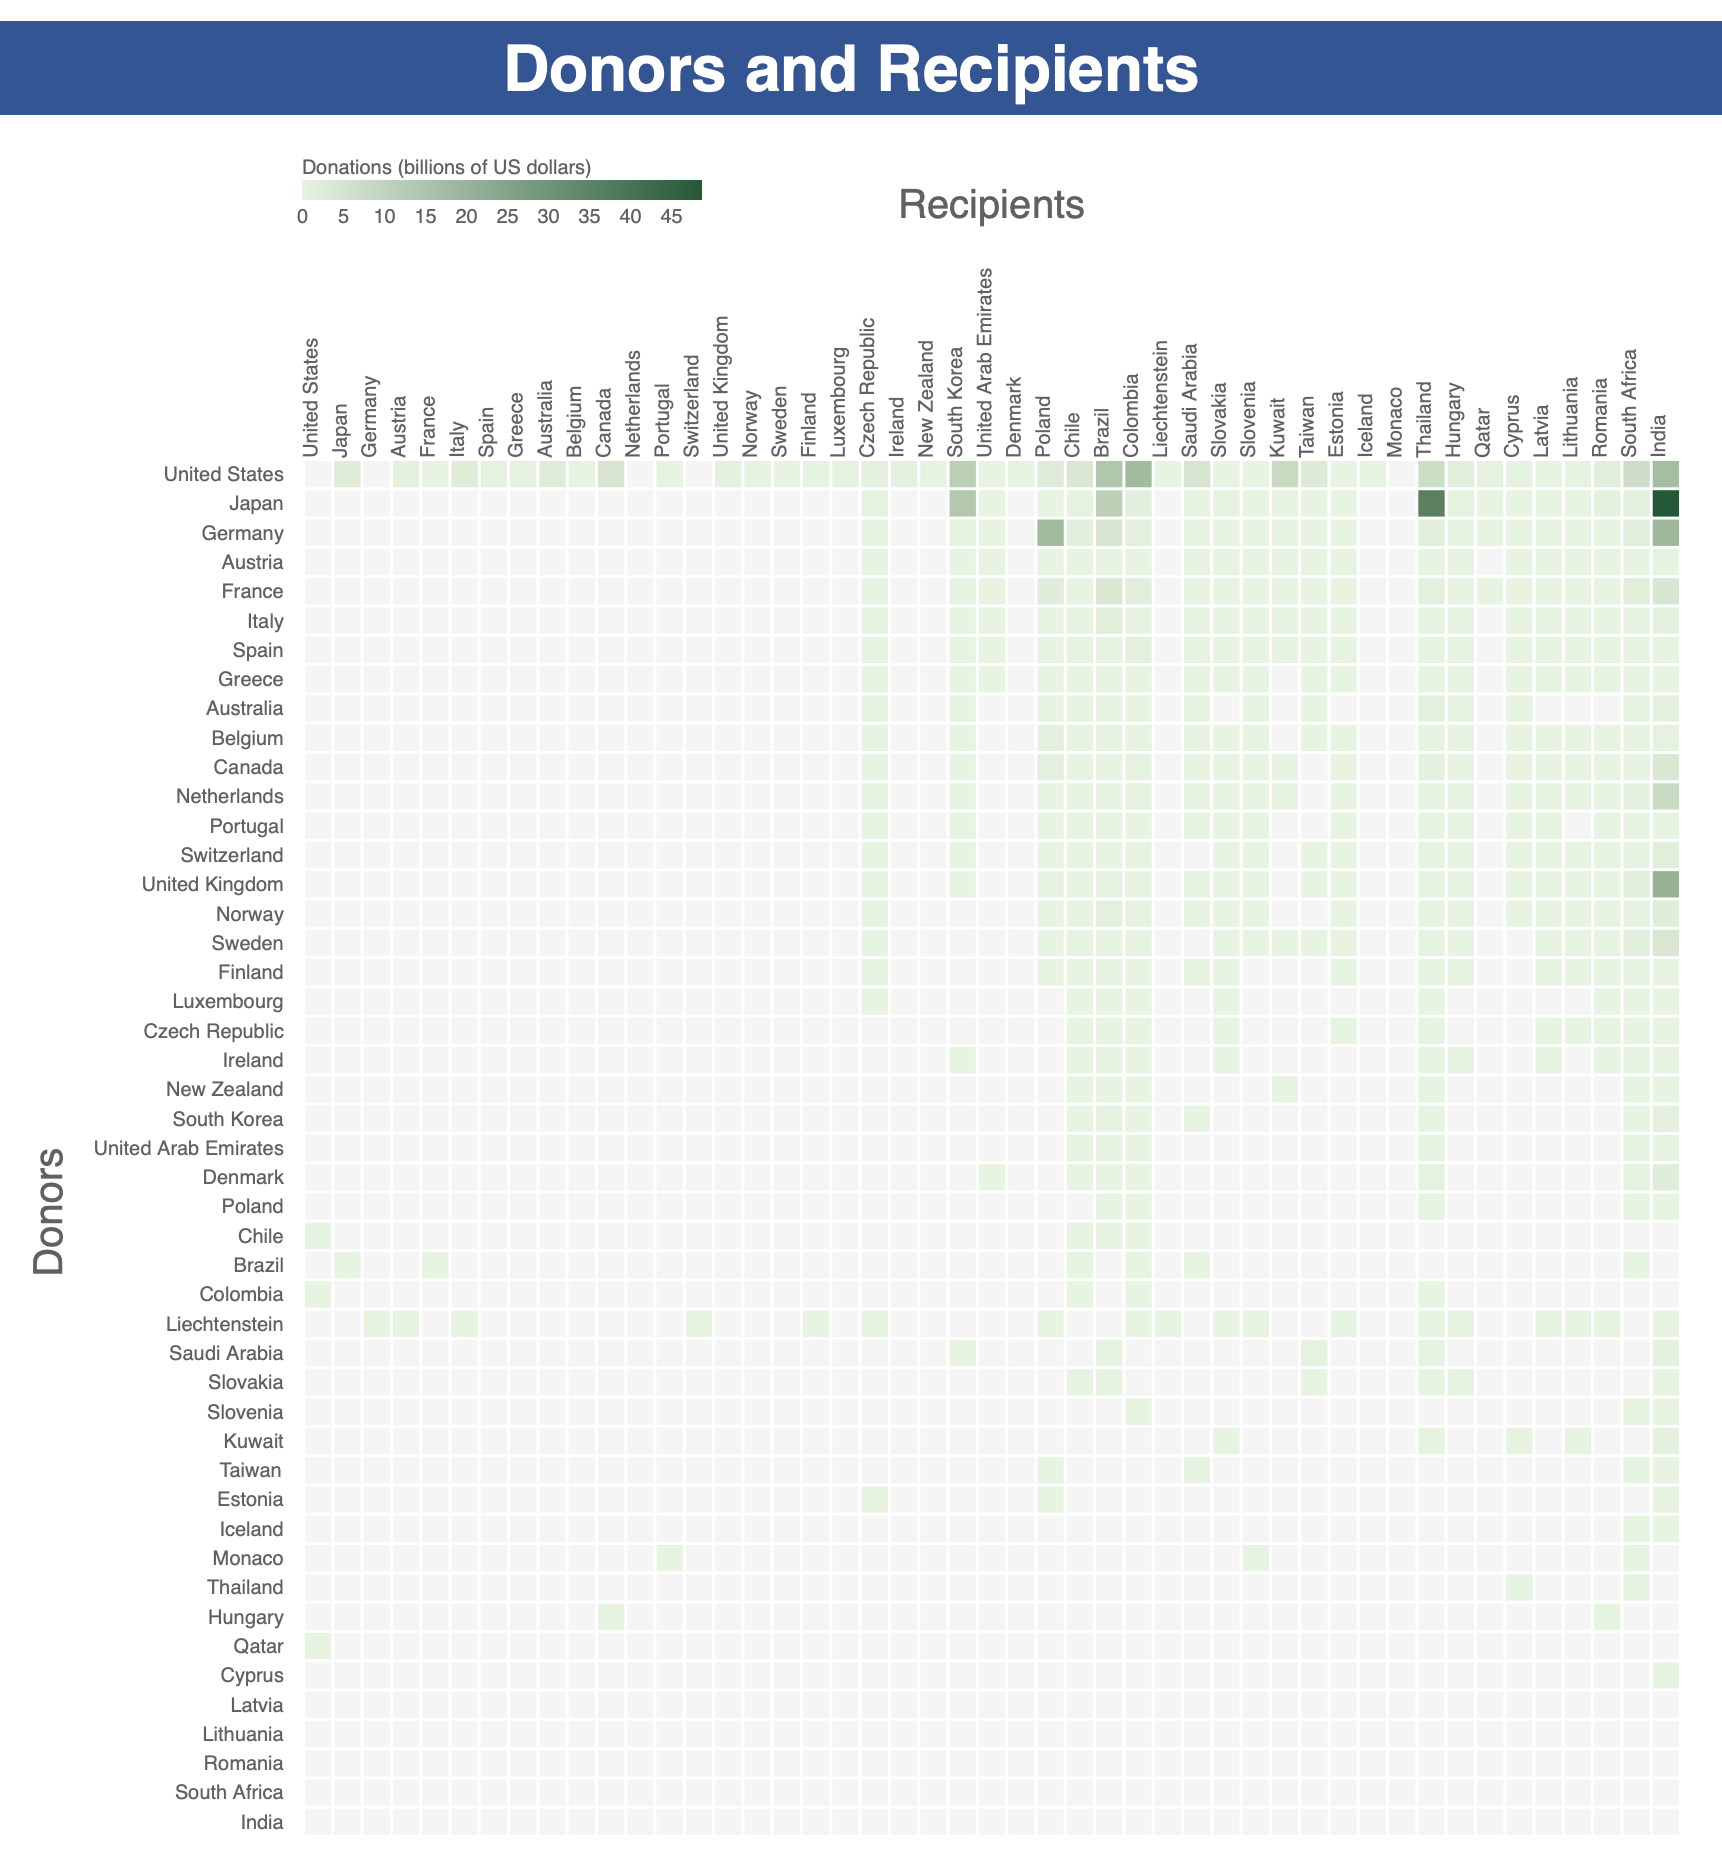
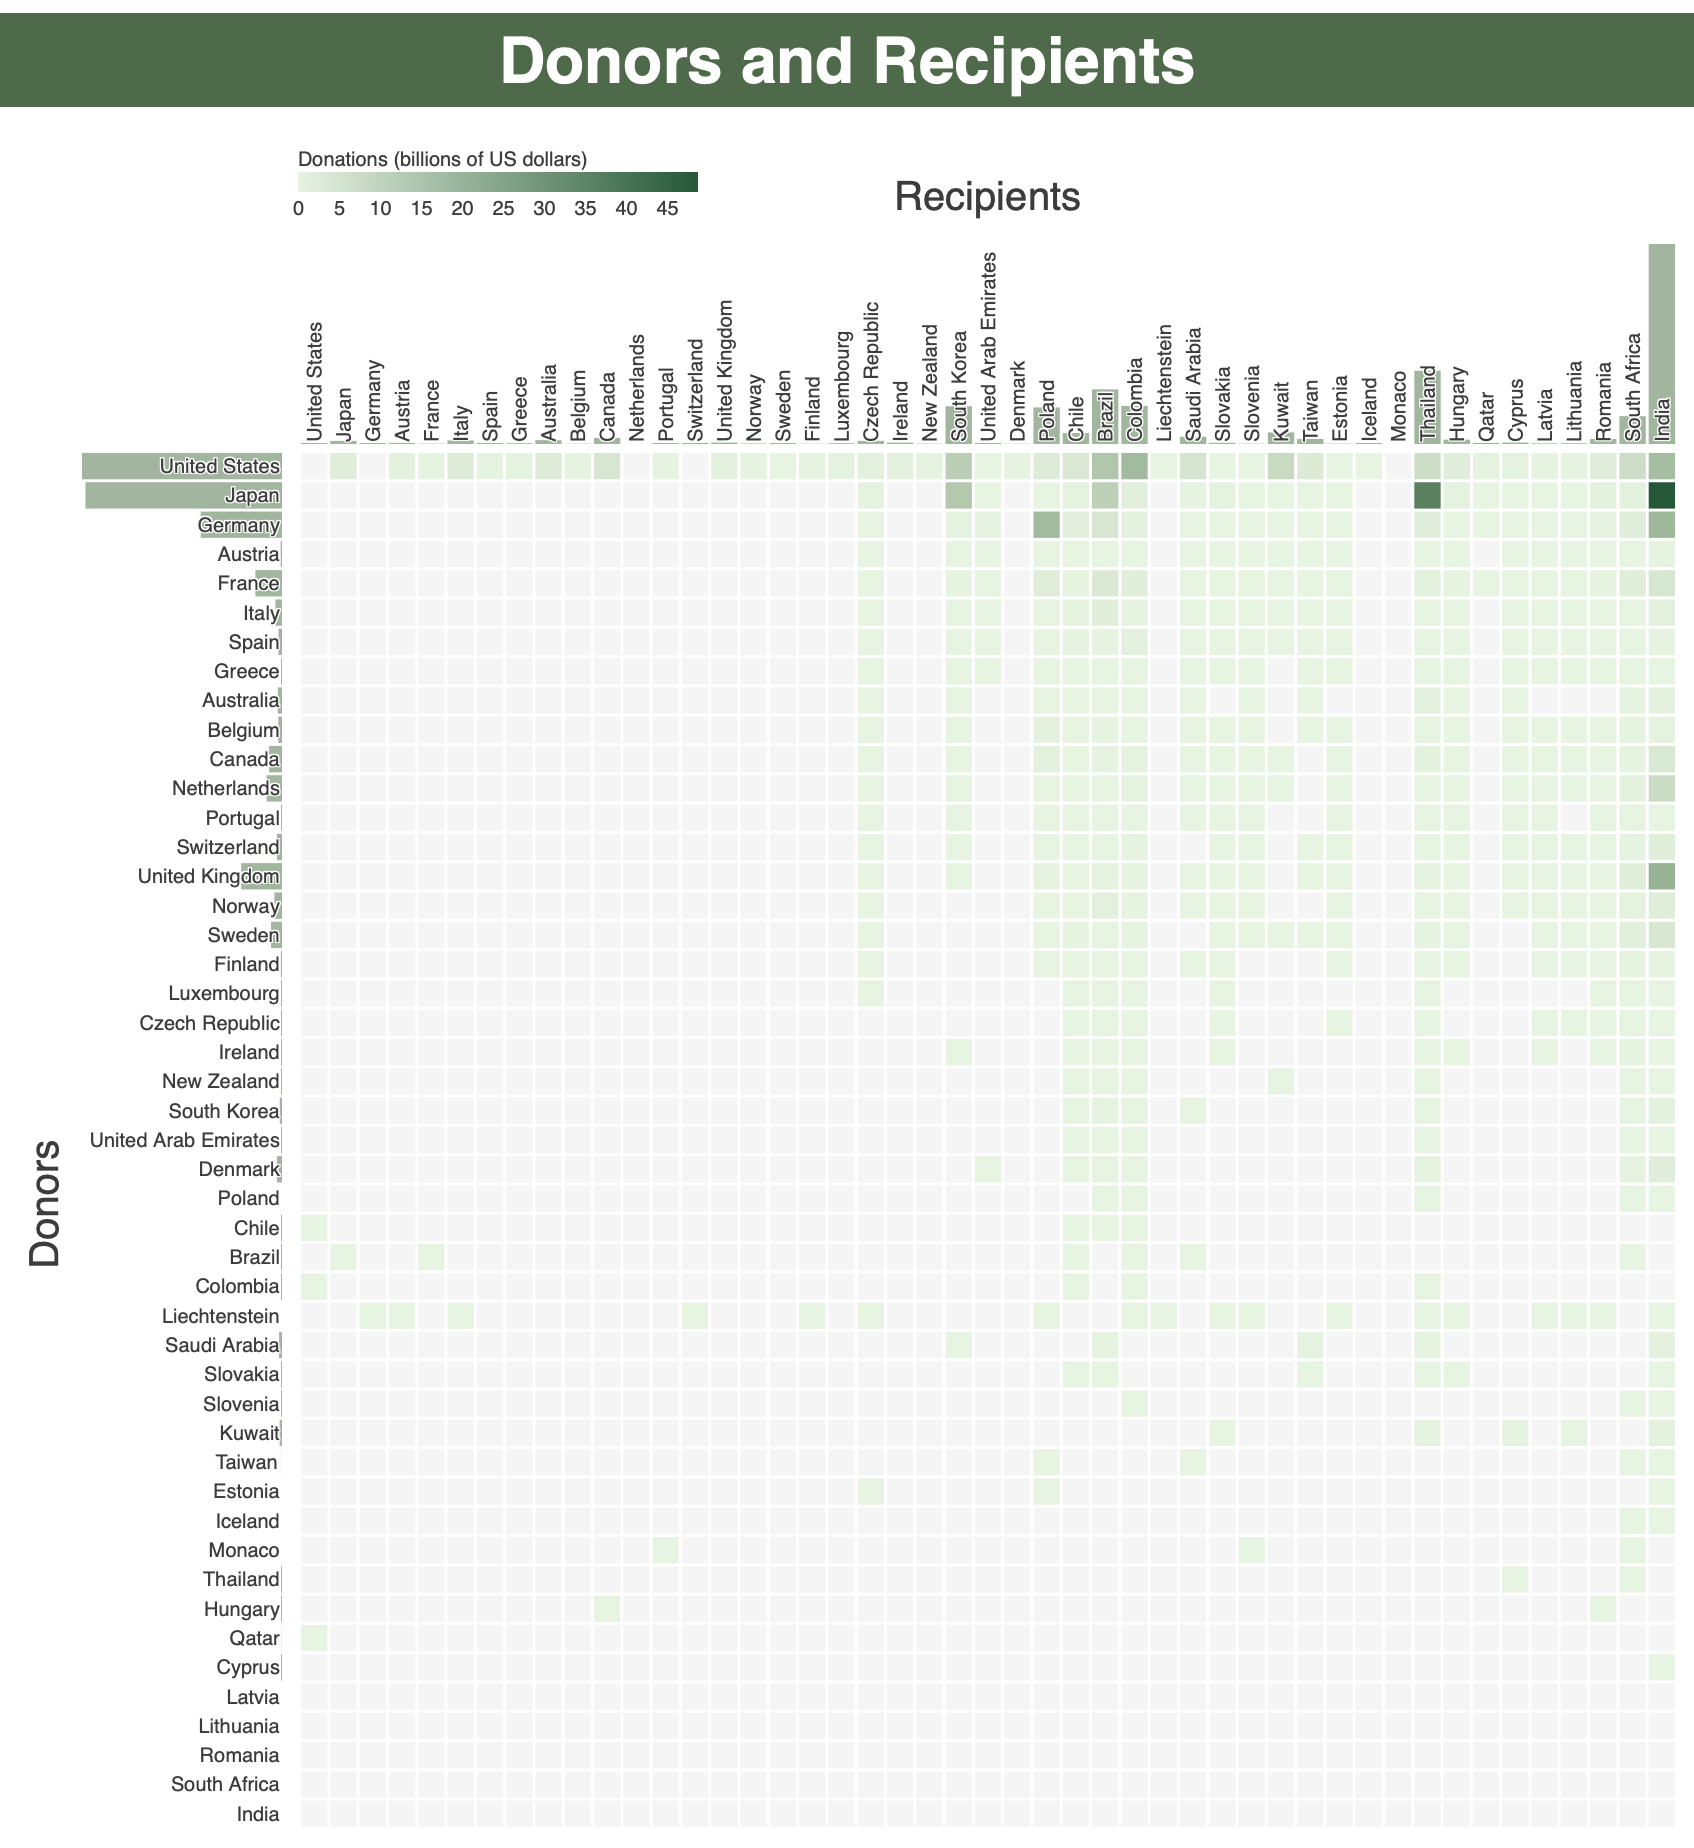
Add bar chart to graph 1

diff --git a/mini-project-3/graph-1.html b/mini-project-3/graph-1.html
@@ -8,7 +8,7 @@
       }
 
       h1 {
-        background-color: #2a5599;
+        background-color: #476b47;
         color: white;
         padding: 5px;
         text-align: center;
@@ -23,8 +23,9 @@
       .x-axis text,
       .y-axis text,
       .legend text {
-        color: #616161;
+        color: #3d3c3c;
         font-size: 10px;
+        text-shadow: -1px -1px 0 #fff, 1px -1px 0 #fff, -1px 1px 0 #fff, 1px 1px 0 #fff;
       }
 
       .x-axis text.title,
@@ -162,6 +163,29 @@
         return result
       }
 
+      function groupByCountry(aidData) {
+        let countries = aidData.reduce((result, d) => {
+          let donor = result[d.donor] || { donated: 0, received: 0 }
+          let recipient = result[d.recipient] || { donated: 0, received: 0 }
+
+          donor.donated += +d.commitment_amount_usd_constant
+          recipient.received += +d.commitment_amount_usd_constant
+
+          result[d.donor] = donor
+          result[d.recipient] = recipient
+          return result
+        }, {})
+
+        let countryNames = Object.keys(countries)
+        countryNames = countryNames.sort((r1, r2) => d3.ascending(getCountryOrder(r1), getCountryOrder(r2)) || d3.ascending(r1, r2))
+
+        let result = []
+        countryNames.forEach(countryName => {
+          result.push({ country: countryName, ...countries[countryName] })
+        })
+        return result
+      }
+
       function getChartConfig() {
         let width = 850
         let height = 850
@@ -198,7 +222,6 @@
       }
 
       function getChartScales(donations, config) {
-        console.log(getCountryNames(donations))
         let x = d3.scaleBand()
           .range([0, config.bodyWidth])
           .domain(getCountryNames(donations))
@@ -214,13 +237,10 @@
           .domain(getDonationsRange(donations))
           .interpolate(d3.interpolateHcl)
 
-        // let color = d3.scaleSequential(d3.interpolateBlues)
-        //   .domain(getDonationsRange(donations))
-
         return { x, y, color }
       }
 
-      function drawChart(donations, scales, config) {
+      function drawHeatMap(donations, scales, config) {
         let g = config.container
           .append('g')
           .style('transform', `translate(${config.margin.left}px, ${config.margin.top}px)`)
@@ -232,13 +252,60 @@
           .append('rect')
           .attr('x', d => scales.x(d.recipient))
           .attr('y', d => scales.y(d.donor))
-          .attr('width', d => scales.x.bandwidth())
-          .attr('height', d => scales.y.bandwidth())
+          .attr('width', scales.x.bandwidth())
+          .attr('height', scales.y.bandwidth())
           .style('fill', d => {
             if (d.amount === 0)
               return '#f5f5f5'
             return scales.color(d.amount)
           })
+      }
+
+      function drawBarChart(countries, scales, config) {
+        drawDonorsBarChart(countries, scales, config)
+        drawRecipientsBarChart(countries, scales, config)
+      }
+
+      function drawDonorsBarChart(countries, scales, config) {
+        let x = d3.scaleLinear()
+          .range([0, 100])
+          .domain([0, d3.max(countries.map(d => d.donated))])
+
+        let g = config.container
+          .append('g')
+          .style('transform', `translate(${config.margin.left - 108}px, ${config.margin.top}px)`)
+
+        g
+          .selectAll()
+          .data(countries)
+          .enter()
+          .append('rect')
+          .attr('x', d => 100 - x(d.donated))
+          .attr('y', d => scales.y(d.country))
+          .attr('width', d => x(d.donated))
+          .attr('height', scales.y.bandwidth())
+          .style('fill', '#9db79d')
+      }
+
+      function drawRecipientsBarChart(countries, scales, config) {
+        let y = d3.scaleLinear()
+          .range([0, 100])
+          .domain([0, d3.max(countries.map(d => d.received))])
+
+        let g = config.container
+          .append('g')
+          .style('transform', `translate(${config.margin.left}px, ${config.margin.top - 103}px)`)
+
+        g
+          .selectAll()
+          .data(countries)
+          .enter()
+          .append('rect')
+          .attr('x', d => scales.x(d.country))
+          .attr('y', d => 100 - y(d.received))
+          .attr('width', scales.x.bandwidth())
+          .attr('height', d => y(d.received))
+          .style('fill', '#9db79d')
       }
 
       function drawAxes(scales, config) {
@@ -254,7 +321,8 @@
         axisX
           .selectAll('text')
             .attr('transform', 'rotate(-90)')
-            .attr('dy', scales.x.bandwidth()/2 + 2)
+            .attr('dx', 4)
+            .attr('dy', scales.x.bandwidth()/2 + 6)
             .style('text-anchor', 'start')
 
         axisX
@@ -343,12 +411,12 @@
 
       function showData(store) {
         let donations = groupByDonations(store.aidData)
+        let countries = groupByCountry(store.aidData)
         let config = getChartConfig()
         let scales = getChartScales(donations, config)
 
-        console.log(donations.filter(d => d.donor === 'United States'))
-
-        drawChart(donations, scales, config)
+        drawHeatMap(donations, scales, config)
+        drawBarChart(countries, scales, config)
         drawAxes(scales, config)
         drawLegend(donations, scales, config)
       }
